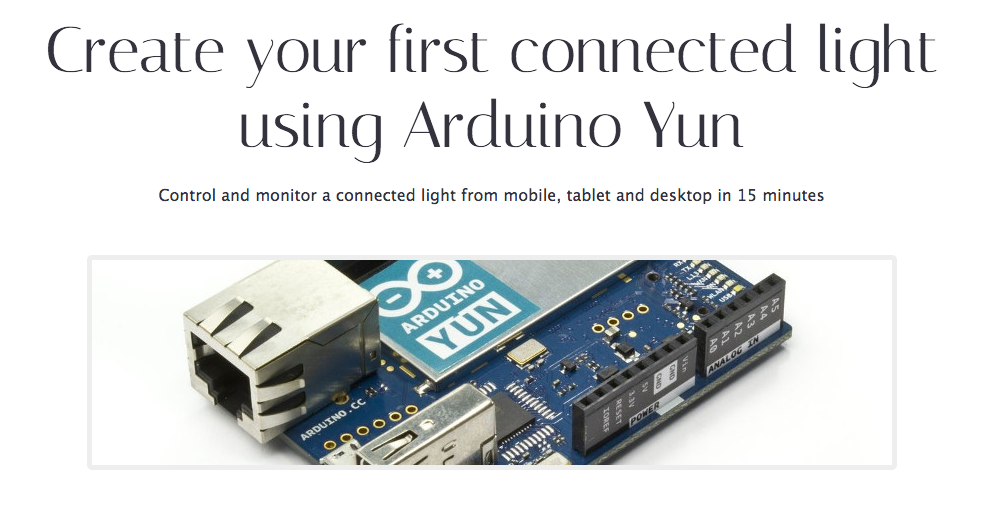
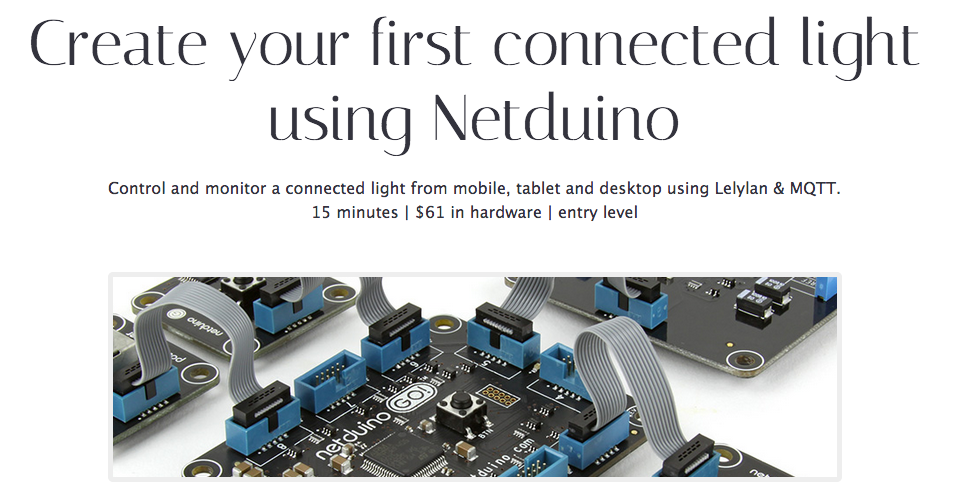
Added netduino code

diff --git a/index.html b/index.html
@@ -35,6 +35,10 @@
     <section>
     <a href="spark-core-light"><img src="spark-core-light/images/preview.png" class="bordered"></img></a>
     </section>
+
+    <section>
+    <a href="netduino-light"><img src="netduino-light/images/preview.png" class="bordered"></img></a>
+    </section>
   </body>
 </html>
 
